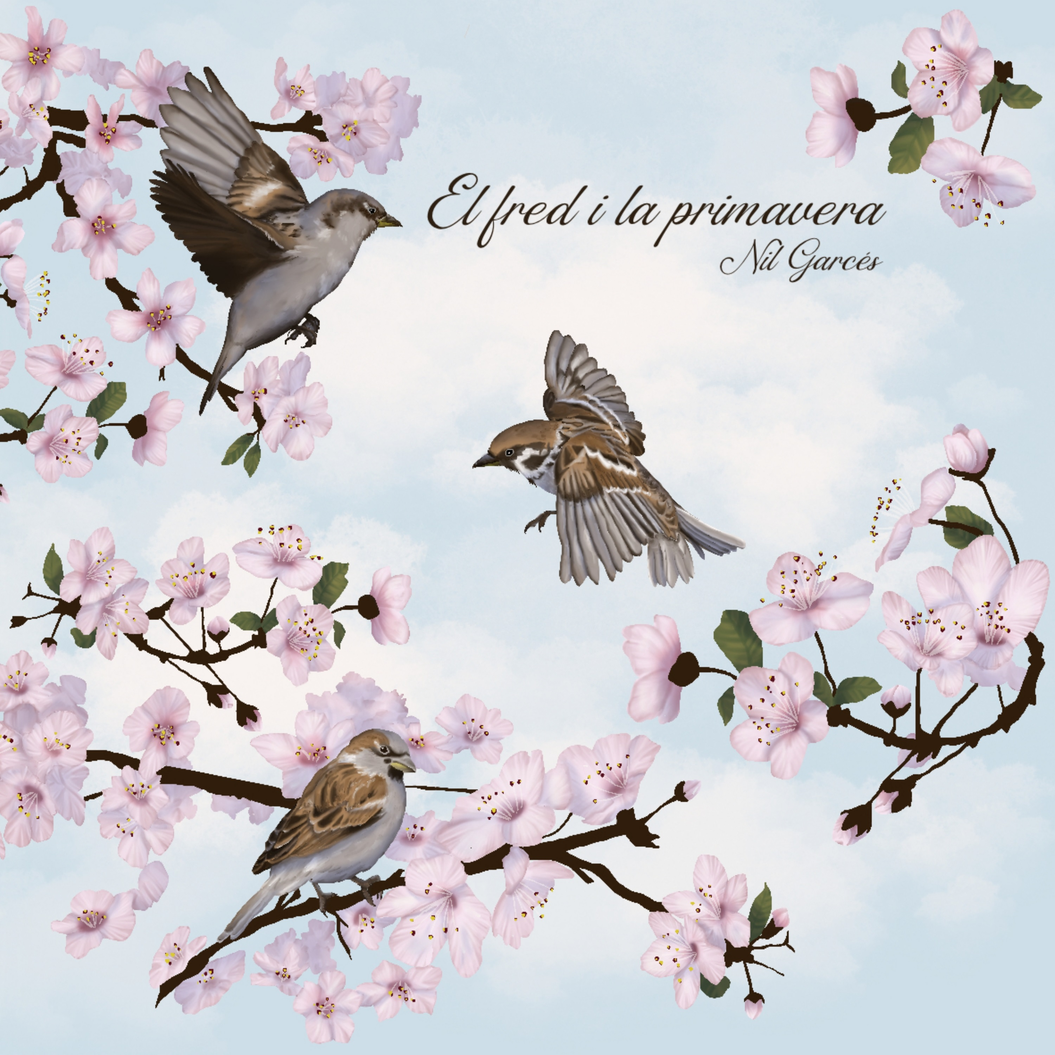
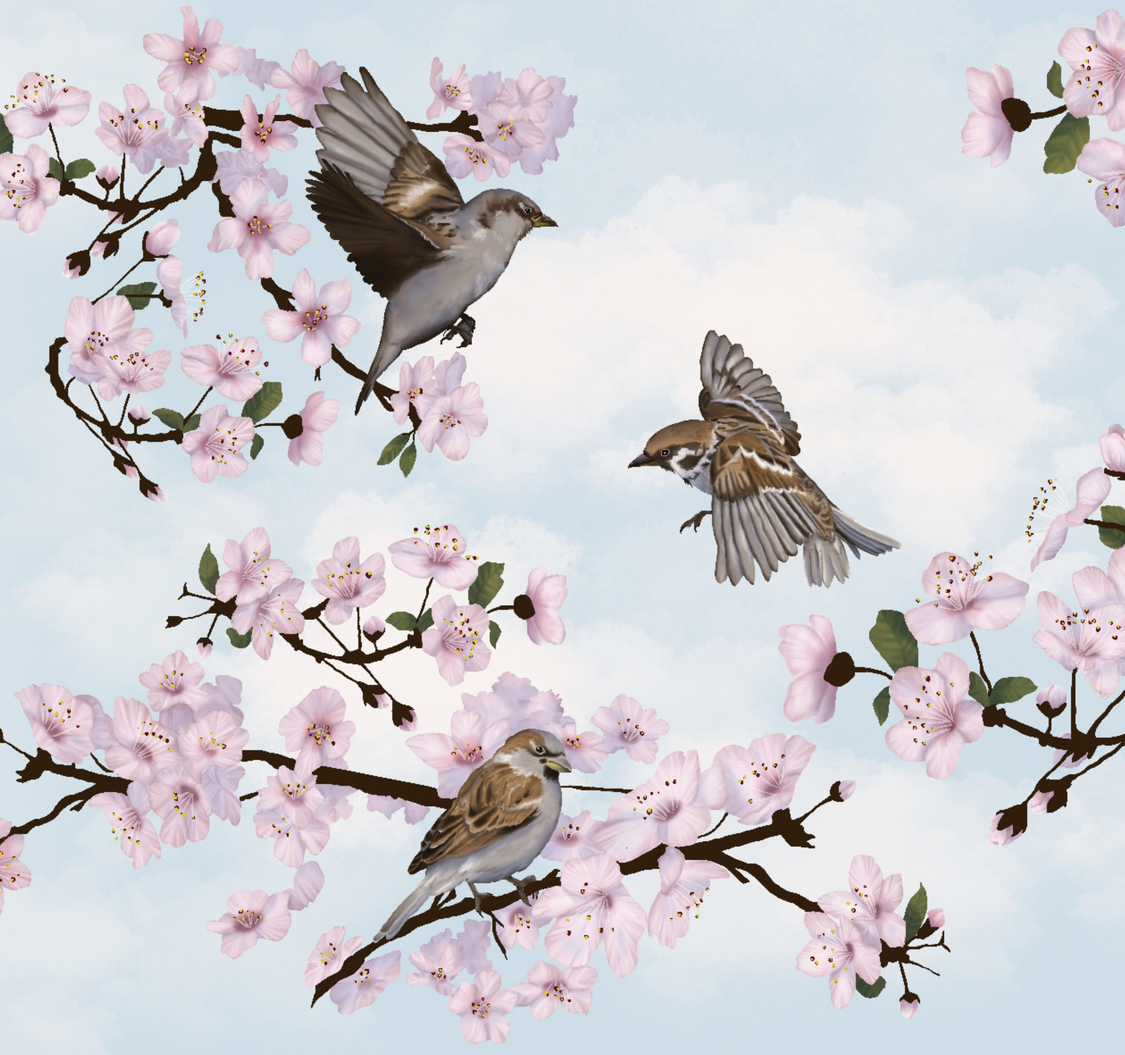
Main Hero layout

diff --git a/src/components/Hero.tsx b/src/components/Hero.tsx
@@ -1,48 +1,45 @@
-import { BackgroundImage } from '@/components/ui/BackgroundImage'
-import { Button } from '@/components/ui/Button'
 import { Container } from '@/components/layout/Container'
+import { Logo } from '@/components/ui/Logo'
+import { logoFont } from '@/styles/fonts'
+import Image from 'next/image'
+
+import backgroundImage from '@/images/background4.jpg'
 
 export function Hero() {
   return (
-    <div className="relative py-20 sm:pb-24 sm:pt-36">
-      <BackgroundImage className="-bottom-14 -top-36" />
-      <Container className="relative">
-        <div className="mx-auto max-w-2xl lg:max-w-4xl lg:px-12">
-          <h1 className=" text-5xl font-bold tracking-tighter text-blue-600 sm:text-7xl">
-            <span className="sr-only">DeceptiConf - </span>A design conference
-            for the dark side.
-          </h1>
-          <div className="mt-6 space-y-6  text-2xl tracking-tight text-blue-900">
-            <p>
-              The next generation of web users are tech-savvy and suspicious.
-              They know how to use dev tools, they can detect a phishing scam
-              from a mile away, and they certainly aren’t accepting any checks
-              from Western Union.
-            </p>
-            <p>
-              At DeceptiConf you’ll learn about the latest dark patterns being
-              developed to trick even the smartest visitors, and you’ll learn
-              how to deploy them without ever being detected.
-            </p>
-          </div>
-          <Button href="#" className="mt-10 w-full sm:hidden">
-            Get your tickets
-          </Button>
-          <dl className="mt-10 grid grid-cols-2 gap-x-10 gap-y-6 sm:mt-16 sm:gap-x-16 sm:gap-y-10 sm:text-center lg:auto-cols-auto lg:grid-flow-col lg:grid-cols-none lg:justify-start lg:text-left">
-            {[
-              ['Speakers', '18'],
-              ['People Attending', '2,091'],
-              ['Venue', 'Staples Center'],
-              ['Location', 'Los Angeles'],
-            ].map(([name, value]) => (
-              <div key={name}>
-                <dt className=" text-sm text-blue-600">{name}</dt>
-                <dd className="mt-0.5 text-2xl font-semibold tracking-tight text-blue-900">
-                  {value}
-                </dd>
-              </div>
-            ))}
-          </dl>
+    <div className="w-full bg-bg-400">
+      <Container className="relative h-screen flex flex-wrap justify-center sm:justify-between lg:flex-nowrap pt-6">
+        <div className="lg:grow lg:basis-0">
+          <Logo className={`h-12 w-auto ${logoFont.className} text-5xl`} />
+        </div>
+        <div className="hidden mt-3 pr-12 sm:flex lg:grow lg:basis-0 lg:justify-end text-lg gap-8 font-medium">
+          <a href="#about" className="text-logo-400">BIO</a>
+          <a href="#music" className="text-logo-400">MÚSICA</a>
+          <a href="#contact" className="text-logo-400">CONTACTE</a>
+        </div>
+        <span className="absolute bottom-3 sm:top-9 right-3 basis-0">
+          <a href="">
+            <svg xmlns="http://www.w3.org/2000/svg" height="32" viewBox="0 -960 960 960" width="32">
+              <path fill="#2d1f12" d="M480-120q-74.308 0-140-28.423t-114.423-77.154Q176.846-274.308 148.423-340 120-405.692 120-480q0-74.539 28.423-140.115 28.423-65.577 77.154-114.308Q274.308-783.154 340-811.577 405.692-840 480-840q74.539 0 140.115 28.423 65.577 28.423 114.308 77.154 48.731 48.731 77.154 114.308Q840-554.539 840-480q0 74.308-28.423 140t-77.154 114.423q-48.731 48.731-114.308 77.154Q554.539-120 480-120Zm0-39.692q35.231-45.231 58.077-88.846 22.846-43.616 37.154-97.616H384.769q15.846 57.077 37.923 100.693 22.077 43.615 57.308 85.769Zm-50.923-6q-28-33-51.116-81.577-23.115-48.577-34.423-98.885H190.154q34.385 74.616 97.5 122.385Q350.769-176 429.077-165.692Zm101.846 0Q609.231-176 672.346-223.769q63.115-47.769 97.5-122.385H616.462q-15.154 51.077-38.269 99.654-23.116 48.577-47.27 80.808ZM173.846-386.154h161.385q-4.539-24.615-6.423-47.961-1.885-23.347-1.885-45.885 0-22.538 1.885-45.885 1.884-23.346 6.423-47.961H173.846q-6.538 20.769-10.192 45.269T160-480q0 24.077 3.654 48.577 3.654 24.5 10.192 45.269Zm201.385 0h209.538q4.539-24.615 6.423-47.192 1.885-22.577 1.885-46.654t-1.885-46.654q-1.884-22.577-6.423-47.192H375.231q-4.539 24.615-6.423 47.192-1.885 22.577-1.885 46.654t1.885 46.654q1.884 22.577 6.423 47.192Zm249.538 0h161.385q6.538-20.769 10.192-45.269T800-480q0-24.077-3.654-48.577-3.654-24.5-10.192-45.269H624.769q4.539 24.615 6.424 47.961 1.884 23.347 1.884 45.885 0 22.538-1.884 45.885-1.885 23.346-6.424 47.961Zm-8.307-227.692h153.384Q734.692-690 673.5-736.231q-61.192-46.23-142.577-58.846 28 36.846 50.346 84.269 22.347 47.423 35.193 96.962Zm-231.693 0h190.462q-15.846-56.308-39.077-101.846-23.231-45.539-56.154-84.616-32.923 39.077-56.154 84.616-23.231 45.538-39.077 101.846Zm-194.615 0h153.384q12.846-49.539 35.193-96.962 22.346-47.423 50.346-84.269-82.154 12.616-142.962 59.231-60.807 46.615-95.961 122Z"/></svg>
+            <span className="absolute bg-bg-400 top-[0.625rem] left-1 rounded-sm text-[0.75rem] leading-none text-logo-400">
+              ENG
+            </span>
+          </a>
+        </span>
+        <div className="absolute top-[4.5rem] inset-x-0 bottom-10 overflow-hidden">
+          <Image
+            className= "absolute object-cover object-top"
+            src={backgroundImage}
+            alt="El fred i la primavera cover image"
+            fill
+            priority
+            unoptimized
+          />
+          {/* <div className="absolute inset-x-0 top-20 h-40 bg-gradient-to-b from-white" /> */}
+          <div className="absolute inset-x-0 h-20 bg-gradient-to-b from-[#D1DFE8]" />
+          <div className="absolute inset-x-0 bottom-0 h-20 bg-gradient-to-t from-[#D1DFE8]" />
+          <div className="absolute top-0 left-0 h-full lg:w-20 bg-gradient-to-r from-[#D1DFE8]" />
+          <div className="absolute top-0 right-0 h-full lg:w-20 bg-gradient-to-l from-[#D1DFE8]" />
         </div>
       </Container>
     </div>

diff --git a/src/components/layout/Header.tsx b/src/components/layout/Header.tsx
@@ -4,17 +4,20 @@ import { logoFont } from '@/styles/fonts'
 
 export function Header() {
   return (
-    <header className="relative z-50 flex-none lg:pt-6 text-logo-400">
+    <div className="relative z-50 flex-none lg:pt-6 text-logo-400">
       <Container className="flex flex-wrap items-center justify-center sm:justify-between lg:flex-nowrap">
         <div className="mt-10 lg:mt-0 lg:grow lg:basis-0">
           <Logo className={`h-12 w-auto ${logoFont.className} text-5xl`} />
         </div>
         <div className="hidden sm:mt-10 sm:flex lg:mt-0 lg:grow lg:basis-0 lg:justify-end text-lg gap-8 font-medium">
-          <a href="#about">ABOUT</a>
-          <a href="#music">MUSIC</a>
-          <a href="#contact">CONTACT</a>
+          <a href="#about">BIO</a>
+          <a href="#music">MÚSICA</a>
+          <a href="#contact">CONTACTE</a>
+        </div>
+        <div>
+          ENG
         </div>
       </Container>
-    </header>
+    </div>
   )
 }

diff --git a/src/components/Schedule.tsx b/src/components/Schedule.tsx
@@ -4,7 +4,7 @@ import { useEffect, useState } from 'react'
 import { Tab } from '@headlessui/react'
 import clsx from 'clsx'
 
-import { BackgroundImage } from '@/components/ui/BackgroundImage'
+// import { BackgroundImage } from '@/components/ui/BackgroundImage'
 import { Container } from '@/components/layout/Container'
 
 interface Day {
@@ -321,7 +321,7 @@ export function Schedule() {
         </div>
       </Container>
       <div className="relative mt-14 sm:mt-24">
-        <BackgroundImage position="right" className="-bottom-32 -top-40" />
+        {/* <BackgroundImage position="right" className="-bottom-32 -top-40" /> */}
         <Container className="relative">
           <ScheduleTabbed />
           <ScheduleStatic />

diff --git a/src/app/not-found.tsx b/src/app/not-found.tsx
@@ -1,11 +1,11 @@
-import { BackgroundImage } from '@/components/ui/BackgroundImage'
+// import { BackgroundImage } from '@/components/ui/BackgroundImage'
 import { Button } from '@/components/ui/Button'
 import { Container } from '@/components/layout/Container'
 
 export default function NotFound() {
   return (
     <div className="relative flex h-full items-center py-20 sm:py-36">
-      <BackgroundImage className="-top-36 bottom-0" />
+      {/* <BackgroundImage className="-top-36 bottom-0" /> */}
       <Container className="relative flex w-full flex-col items-center">
         <p className=" text-2xl tracking-tight text-blue-900">
           404

diff --git a/src/components/ui/Button.tsx b/src/components/ui/Button.tsx
@@ -7,7 +7,7 @@ type ButtonProps =
 
 export function Button({ className, ...props }: ButtonProps) {
   className = clsx(
-    'inline-flex justify-center rounded-2xl bg-blue-600 p-4 text-base font-semibold text-white hover:bg-blue-500 focus:outline-none focus-visible:outline-2 focus-visible:outline-offset-2 focus-visible:outline-blue-500 active:text-white/70',
+    'inline-flex justify-center rounded-2xl bg-logo-400 p-4 text-base font-semibold text-white focus:outline-none focus-visible:outline-2 focus-visible:outline-offset-2 active:text-white/70',
     className,
   )
 

diff --git a/src/components/layout/Container.tsx b/src/components/layout/Container.tsx
@@ -1,12 +1,10 @@
-import clsx from 'clsx'
-
 export function Container({
   className,
   ...props
 }: React.ComponentPropsWithoutRef<'div'>) {
   return (
     <div
-      className={clsx('mx-auto max-w-7xl px-4 sm:px-6 lg:px-8', className)}
+      className={`mx-auto max-w-7xl px-4 sm:px-6 lg:px-8 ${className}`}
       {...props}
     />
   )

diff --git a/src/app/(main)/layout.tsx b/src/app/(main)/layout.tsx
@@ -4,7 +4,7 @@ import { Header } from '@/components/layout/Header'
 export default function Layout({ children }: { children: React.ReactNode }) {
   return (
     <>
-      <Header />
+
       <main className="flex-auto">
         {children}
       </main>

diff --git a/tailwind.config.ts b/tailwind.config.ts
@@ -32,7 +32,7 @@ export default {
           400: '#2d1f12',
         },
         bg: {
-          400: '#f1f0ee',
+          400: '#D1DFE8',
         },
       }
     },
